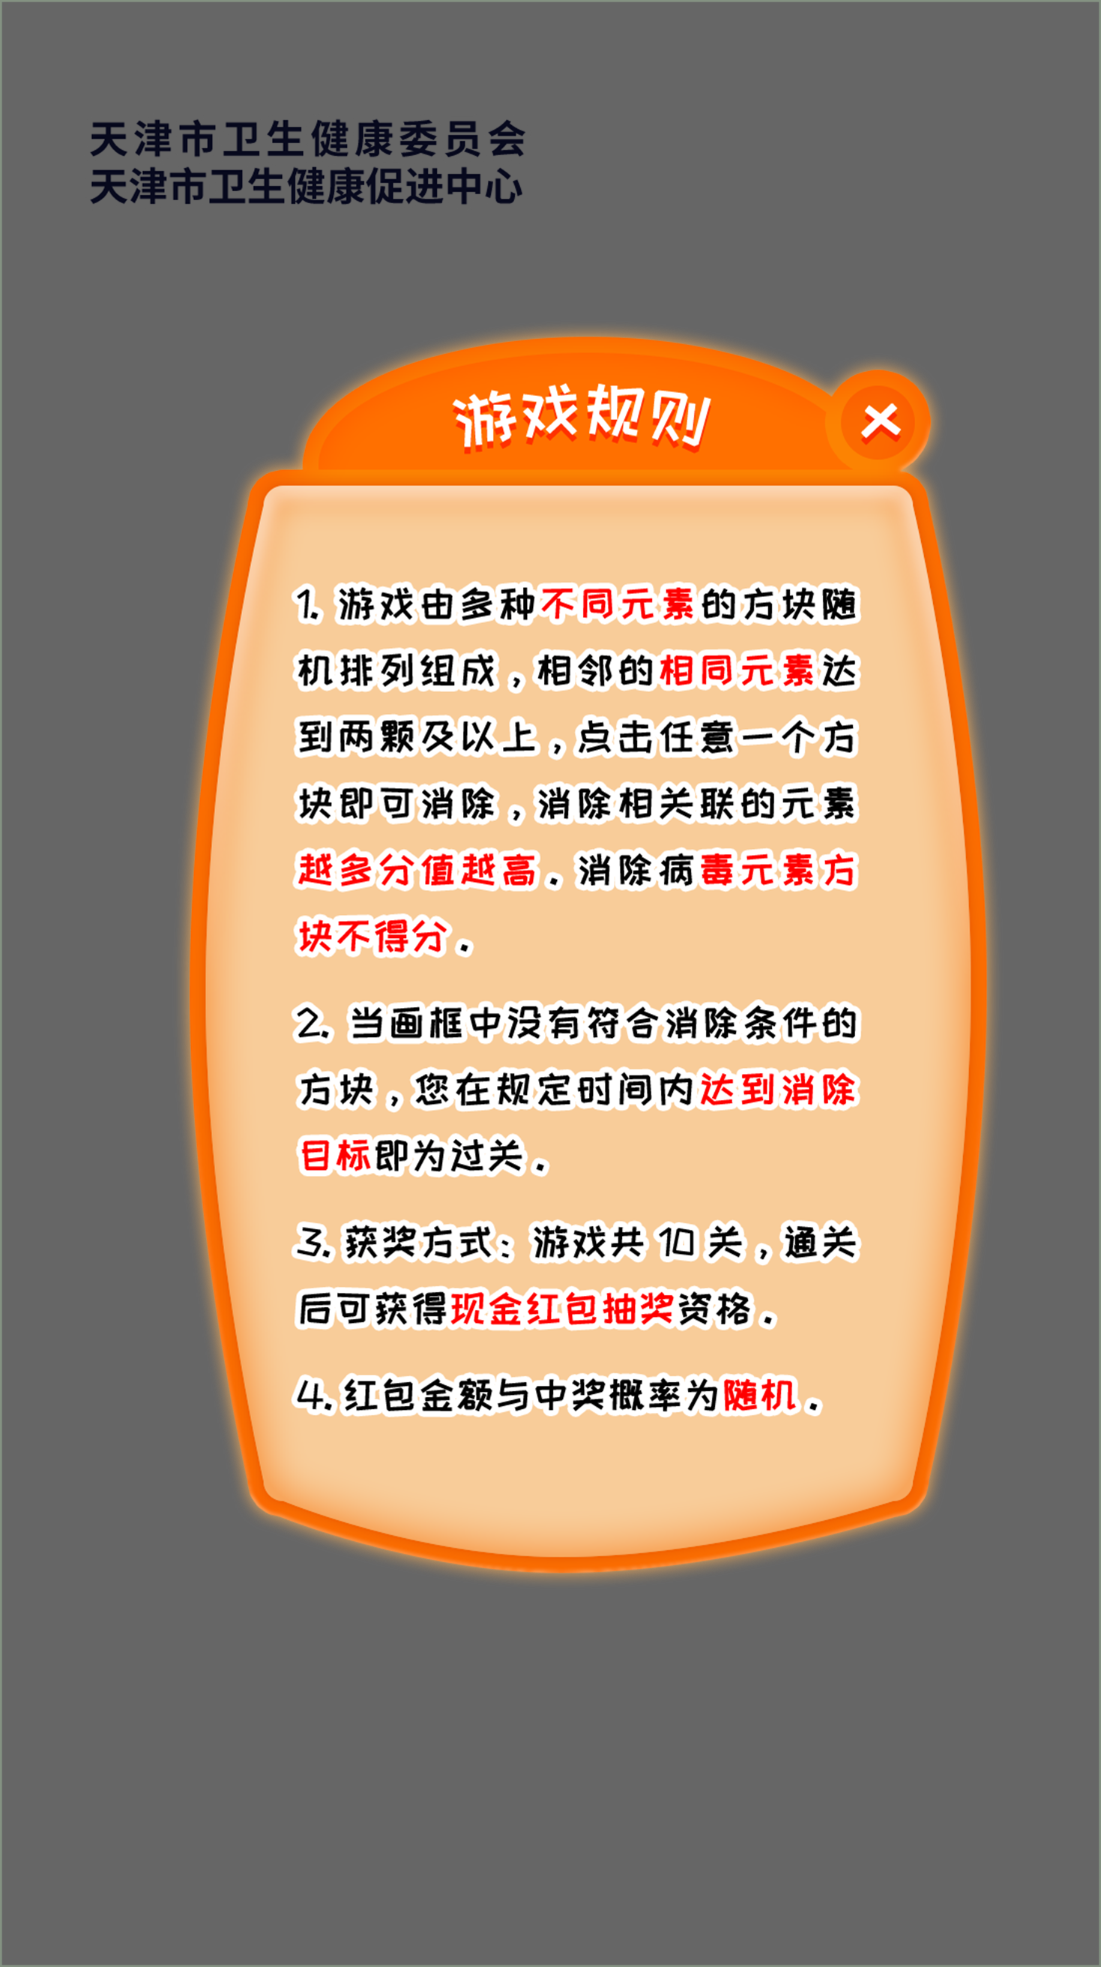
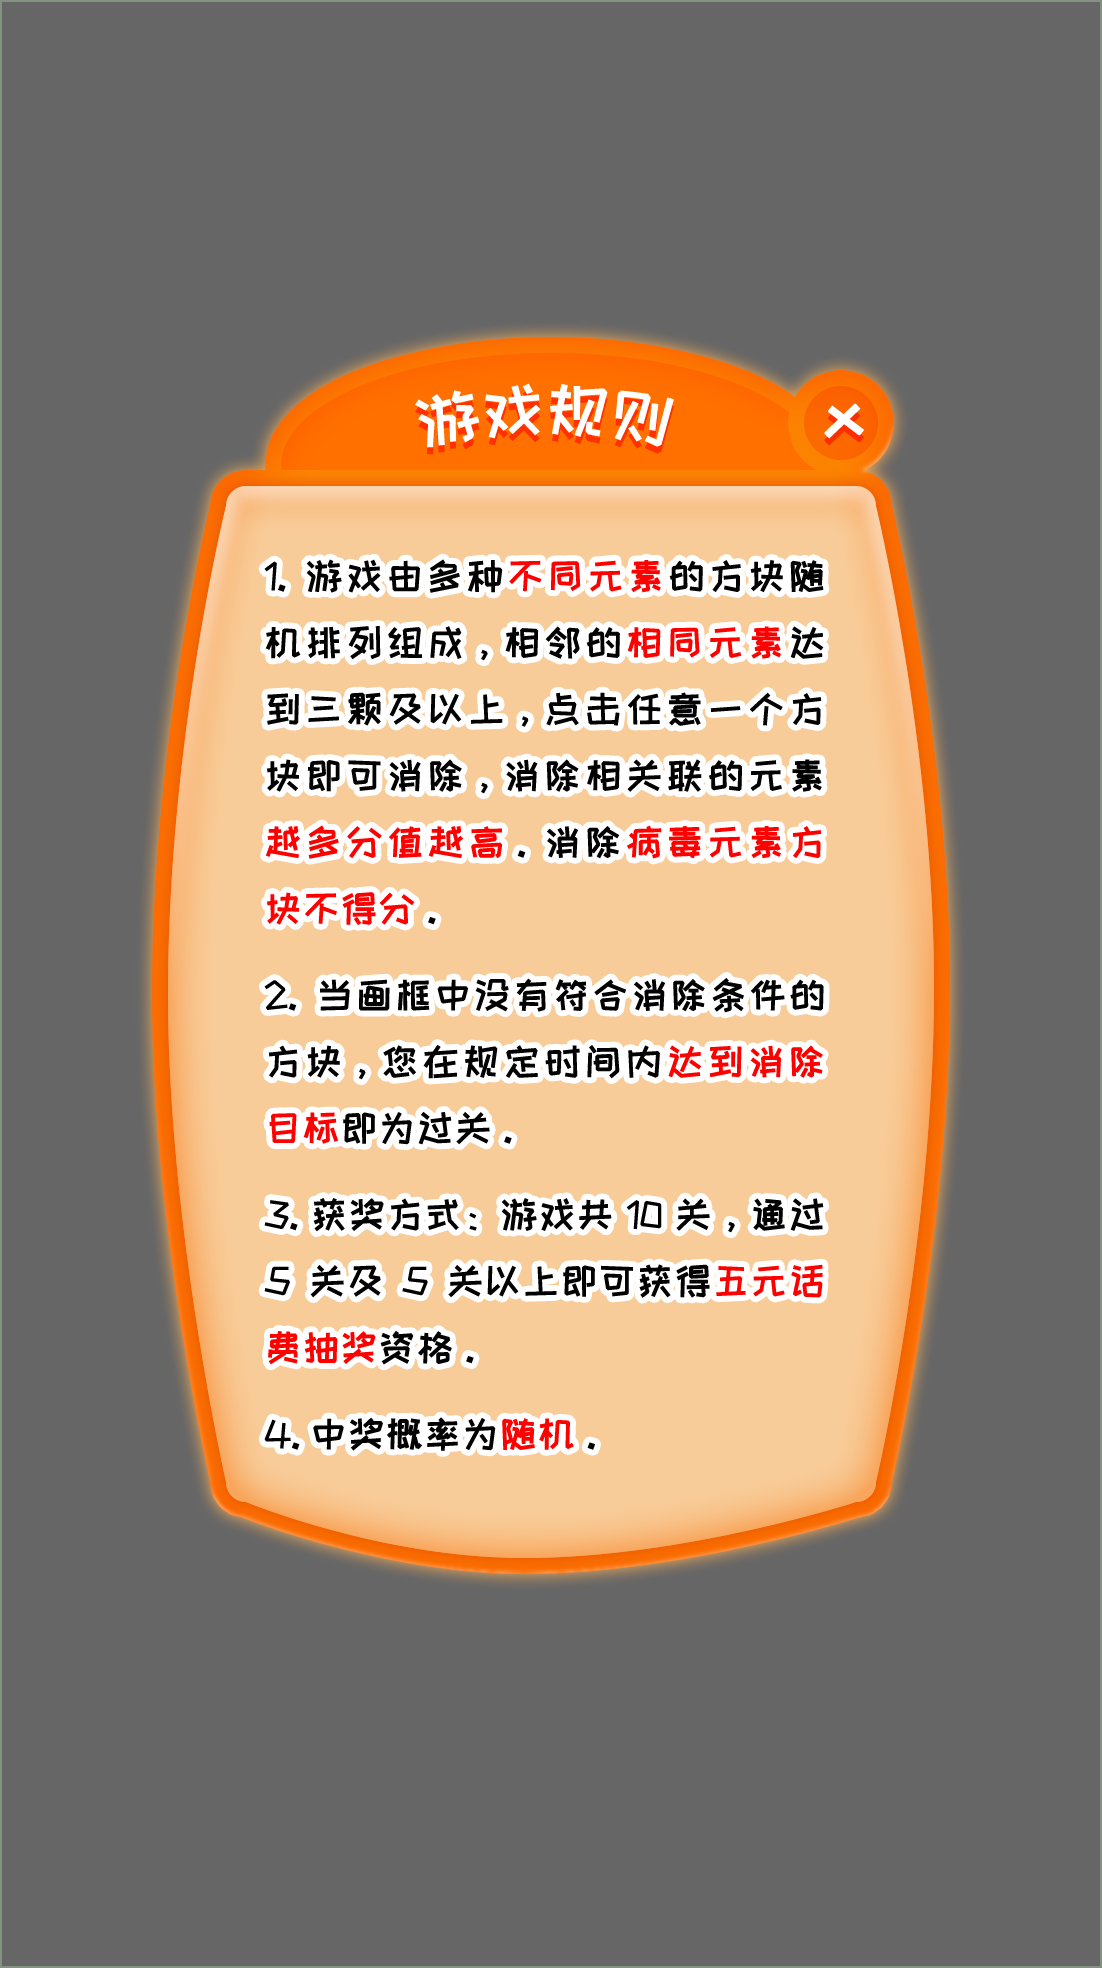
修改抽奖规则

Changed region(s): [[0.1235, 0.1551, 0.9264, 0.8063], [0.0618, 0.062, 0.4941, 0.124]]

diff --git a/js/all.js b/js/all.js
@@ -14,7 +14,7 @@ var nowFilters = {
     Checkpoint1: { condition: [{ name: "mask", value: 3, type: 5 }], time: 250 },
     Checkpoint2: { condition: [{ name: "soap", value: 4, type: 6 }], time: 300 },
     Checkpoint3: { condition: [{ name: "gloves", value: 6, type: 2 }], time: 300 },
-    Checkpoint4: { condition: [{ name: "Syringe", value: 7, type: 4 }], time: 500 },
+    Checkpoint4: { condition: [{ name: "Syringe", value: 6, type: 4 }], time: 500 },
     Checkpoint5: { condition: [{ name: "mask", value: 6, type: 5 }, { name: "soap", value: 3, type: 6 }], time: 600 },
     Checkpoint6: { condition: [{ name: "disinfectant", value: 6, type: 1 }, { name: "plastic", value: 6, type: 3 }], time: 600 },
     Checkpoint7: { condition: [{ name: "mask", value: 7, type: 5 }], time: 600 },
@@ -80,6 +80,8 @@ var wxName = '';
 var wxAvatar = '';
 var userid = '0';
 var rankList = [];
+var nowProbability = 0;
+var isWin = 2;
 
 
 if (localStorage.getItem("count") == null) {
@@ -182,6 +184,7 @@ function renderCondition() {
 }
 
 function beginFromOne() {
+    $('.towin_game_button_but_fail').css('display', 'none');
     imgname = ["disinfectant", "gloves", "plastic", "Syringe", "mask", "soap"];
     BLOCK_TYPE = 6
     hidePassBg();
@@ -1014,7 +1017,7 @@ function gameover(score, all_sum, one_sum, type) {
             var nextPassTime = nowFilters[nowpass].time;
             ALLTIME = nextPassTime;
         } else {
-            saveScore()
+            saveScore();
             var needimg = './png/success.png';
             $('.game_pass_img').attr("src", needimg);
             $('.game_pass_img').css('display', 'block');
@@ -1030,11 +1033,15 @@ function gameover(score, all_sum, one_sum, type) {
 
         }
     } else {
+        if(passnumber>=6){
+            $('.towin_game_button_but_fail').css('display', 'block');
+        }
         var needimg = './png/pass_fail.png';
         $('.game_pass_img').attr("src", needimg);
         $('.game_pass_img').css('display', 'block');
         $('.next_pass_button_area').css('z-index', 12);
         $('.restart_game_button').css('display', 'block');
+        
     }
 
 
@@ -1042,10 +1049,170 @@ function gameover(score, all_sum, one_sum, type) {
 };
 
 function toWin() {
-    window.location = 'https://www.wenjuan.com/s/VRFr6zt/'
+    //window.location = 'https://www.wenjuan.com/s/VRFr6zt/'
+
+    if(canForturn){
+        fortureResult()
+    }else{
+        var willimg = './png/only_one_chance.png';
+        $('.fail_money_area').css('display', 'block');
+        $('.fail_money_area').css('z-index', 999999999999999999999999999);
+        setTimeout(function(){
+            $('.fail_money_area_img').attr("src", willimg);
+            $('.fail_money_area_img').css('display', 'block');
+        },50)
+    }
 }
 
 
+
+function  cllbackPassimg(){
+    $('.fail_money_area').css('display', 'none');
+    $('.success_money_area').css('display', 'none');
+}
+
+
+
+function validatePhone(){
+    var phone = document.getElementById("success_money_area_bg_fake_input").value
+    if(!(/^1[3|4|5|7|8][0-9]{9}$/.test(phone))){ 
+        alert("手机号码有误，请重填");  
+        return false; 
+    }else{
+        return true
+    }
+    
+}
+
+
+function getWInMoney(){
+    $.ajax({
+        url: 'https://sss.hemajia.net/jk/user/oauth2',
+        type: "post",
+        contentType: 'application/json',
+        data: JSON.stringify(info),
+        dataType: 'json',
+        success: function (res) {
+            wxName = res.data.nickname;
+            wxAvatar = res.data.headimgurl;
+            userid = res.data.userid
+        }
+    })
+    
+}
+
+
+function getprobability(){
+    $.ajax({
+        url: 'https://sss.hemajia.net/jk/user/selectByGailv  ',
+        type: "post",
+        data:'',
+        contentType: 'application/json',
+        dataType: 'json',
+        success: function (res) {
+            nowProbability = res.data[0].zjglv;
+        }
+    })
+}
+
+
+function fortureResult(){
+    var wheprobability = nowProbability/100;
+    if(Math.random()<=wheprobability){
+        isWin = 1;
+        var willimg = './png/no_change.png';
+        $('.success_money_area').css('display', 'block');
+        $('.success_money_area').css('z-index', 999999999999999999999999999); 
+        canForturn = false;
+        var info = {
+            'openid': userid,
+            'phone':'',
+            isWin,
+        }
+        $.ajax({
+            url: 'https://sss.hemajia.net/jk/user/insert',
+            type: "post",
+            data:info,
+            contentType:  'application/x-www-form-urlencoded;charset=UTF-8' ,
+            dataType: 'json',
+            success: function (res) {
+                
+            }
+        })
+    }else{
+        isWin = 2;
+        var willimg = './png/no_change.png';
+        $('.fail_money_area').css('display', 'block');
+        $('.fail_money_area').css('z-index', 999999999999999999999999999);
+        var info = {
+            'openid': userid,
+            'phone':'',
+            isWin,
+        }
+        $.ajax({
+            url: 'https://sss.hemajia.net/jk/user/insert',
+            type: "post",
+            data:info,
+            contentType:  'application/x-www-form-urlencoded;charset=UTF-8' ,
+            dataType: 'json',
+            success: function (res) {
+                
+            }
+        })
+        setTimeout(function(){
+            $('.fail_money_area_img').attr("src", willimg);
+            $('.fail_money_area_img').css('display', 'block');
+            canForturn = false
+        },50)
+    }
+
+}
+
+function searchFirst(){
+    var whether =  localStorage.getItem("nowCode1");
+    var info = {
+        'openid': userid,
+    };
+    $.ajax({
+        url: 'https://sss.hemajia.net/jk/user/checkByOpenid',
+        type: "post",
+        data:JSON.stringify(info),
+        contentType: 'application/json',
+        dataType: 'json',
+        success: function (res) {
+            canForturn = res.flag;
+        }
+    })
+   
+}
+
+
+function saveFortureInfo(){
+    var whether =  localStorage.getItem("nowCode1");
+    var phone1 = document.getElementById("success_money_area_bg_fake_input").value;
+    if(!(/^1[3|4|5|7|8][0-9]{9}$/.test(phone1))){ 
+        alert("手机号码有误，请重填");  
+        return false; 
+    }
+    var info = {
+        'openid': userid,
+        'phone':phone1,
+        isWin,
+    }
+    $.ajax({
+        url: 'https://sss.hemajia.net/jk/user/insert',
+        type: "post",
+        data:info,
+        contentType:  'application/x-www-form-urlencoded;charset=UTF-8' ,
+        dataType: 'json',
+        success: function (res) {
+            if(res.flag){
+                alert('领取成功，后续工作人员将为您充值');
+                cllbackPassimg();
+            }
+        }
+    })
+}
 
 function toRank() {
     getRank()

diff --git a/css/all.css b/css/all.css
@@ -17,6 +17,70 @@ html, body {
     height:100vh;
     position: relative;
 }
+.fail_money_area{
+    width:100%;
+    z-index: 9999999999999999999999999999999999999999999999999999;
+    display: none;
+    height:100vh;
+    position: absolute;
+    left:0;
+    top:0;
+}
+.success_money_area{
+    width:100%;
+    z-index: 98;
+    height:100vh;
+    display: none;
+    position: absolute;
+    left:0;
+    top:0;
+}
+.success_money_area_bg{
+    width:100%;
+    z-index: 9999999999999999999999999999999999999999999999999999;
+    height:100vh;
+    position: absolute;
+    left:0;
+    top:0;
+}
+.success_money_area_bg_fake{
+    position: absolute;
+    width:309px;
+    height:344px;
+    left:50%;
+    top:50%;
+    margin-left:-155px;
+    margin-top:-172px;
+    z-index: 99999999999;
+    background:url('../png/chance_area.png') no-repeat center;
+    background-size: cover;
+}
+.success_money_area_bg_fake_input{
+    position: absolute;
+    left:50%;
+    top:110px;
+    margin-left:-97px;
+    width: 194px;
+    height:20px;
+    background:white;
+}
+.success_money_area_bg_fake_btn{
+    position: absolute;
+    left:50%;
+   bottom:70px;
+    margin-left:-106px;
+    width: 212px;
+    height:61px;
+}
+.fail_money_area_img{
+    width:100%;
+    z-index: 97;
+    height:100vh;
+    display: none;
+    position: absolute;
+    left:0;
+    top:0;
+}
 .start_index{
     width:100%;
     z-index: 99;
@@ -93,7 +157,7 @@ html, body {
     left:0;
     display: none;
     top:0;
-    z-index: 99999999999999999999;
+    z-index: 999;
 }
 .game_pass_img_rank_img_area{
     width:320px;
@@ -186,6 +250,12 @@ html, body {
 .towin_game_button{
     width:125px;
     height:40px;
+    display: none;
+}
+.towin_game_button_but_fail{
+    width:125px;
+    height:40px;
+    margin-left:20px;
     display: none;
 }
 .top_function_area{

diff --git a/index.html b/index.html
@@ -20,6 +20,20 @@
      </div> 
      <!-- 总背景区域开始 -->
      <div  class='all_bg' >
+       <!--中奖开始  -->
+      <div class='success_money_area'  >
+        <img src="./png/have_change_bg.png"    class='success_money_area_bg' >
+        <div class='success_money_area_bg_fake' >
+         <input type="text"   class='success_money_area_bg_fake_input' id='success_money_area_bg_fake_input'  >
+         <img src="./png/get_btn.png"   onclick="saveFortureInfo()"   class='success_money_area_bg_fake_btn'>
+        </div>
+      </div>
+       <!-- 中奖结束 -->
+       <!-- 没中奖开始 -->
+      <div class='fail_money_area' >
+        <img src="./png/no_change.png"   onclick="cllbackPassimg()"  class='fail_money_area_img'  >
+      </div>
+       <!-- 没中奖结束 -->
        <!--  首页开始页面开始-->
        <div  class='start_index' >
          <div  class='pre_load' >加载图片中，请稍后...</div>
@@ -118,7 +132,7 @@
       <div  class='next_pass_button_area' >
          <img src="./png/next_btn.png"   onclick="start(ALLTIME)"  class='next_pass_button'  >
          <img src="./png/re_start.png"   onclick="beginFromOne()"  class='restart_game_button'  >
-         <!-- <img src="./png/lottery.png"   onclick="toWin()"  class='towin_game_button'  > -->
+         <img src="./png/lottery.png"   onclick="toWin()"  class='towin_game_button_but_fail'  >
       </div>
       <div  class='next_pass_button_area_success' >
         <img src="./png/lottery.png"   onclick="toWin()"  class='towin_game_button'  >
@@ -213,6 +227,14 @@
             }, false); 
         },10)
     });
+
+    getprobability()
+
+
+    setTimeout(() => {
+       searchFirst()
+    }, 15000);
+   
 
 
 
